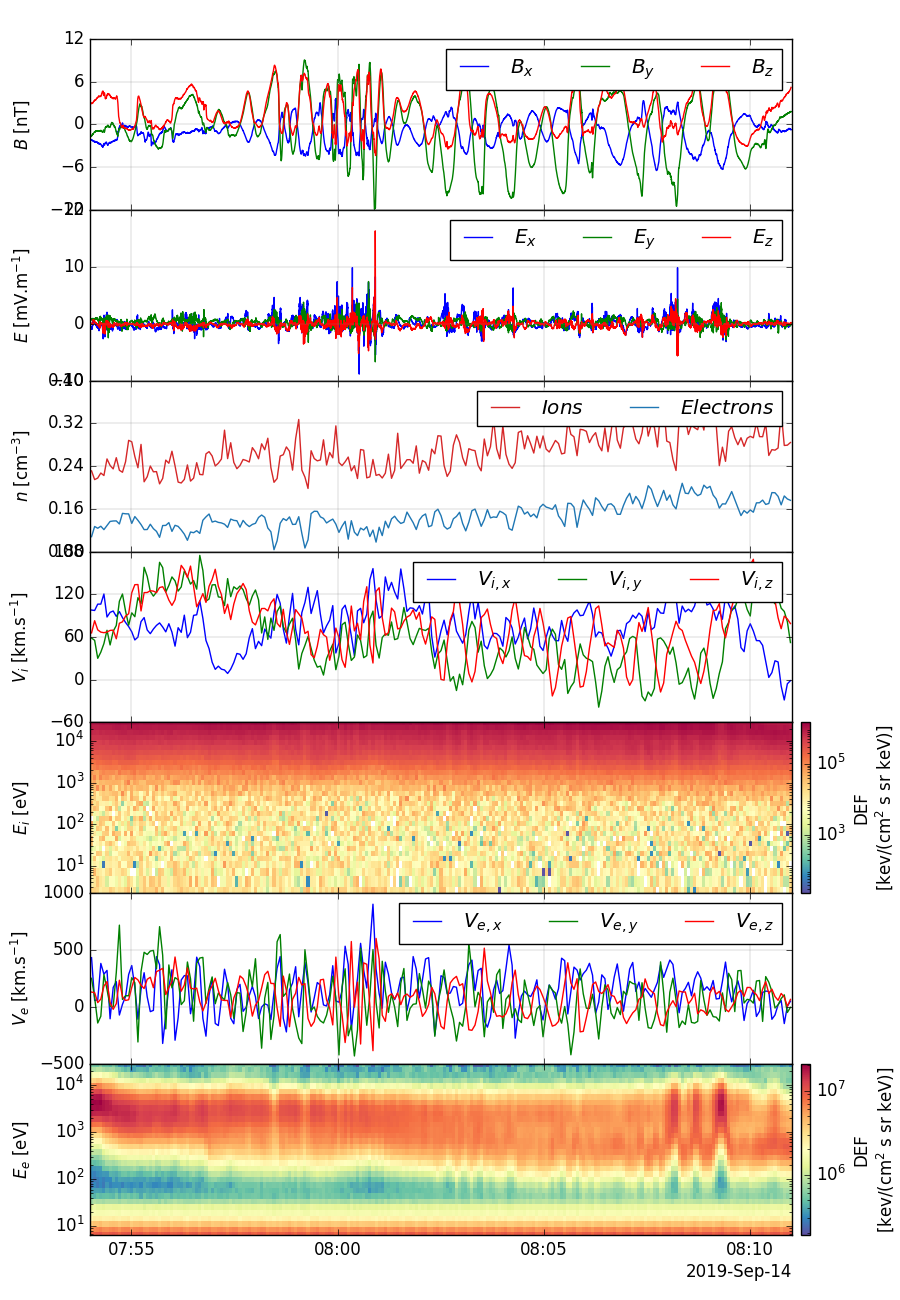
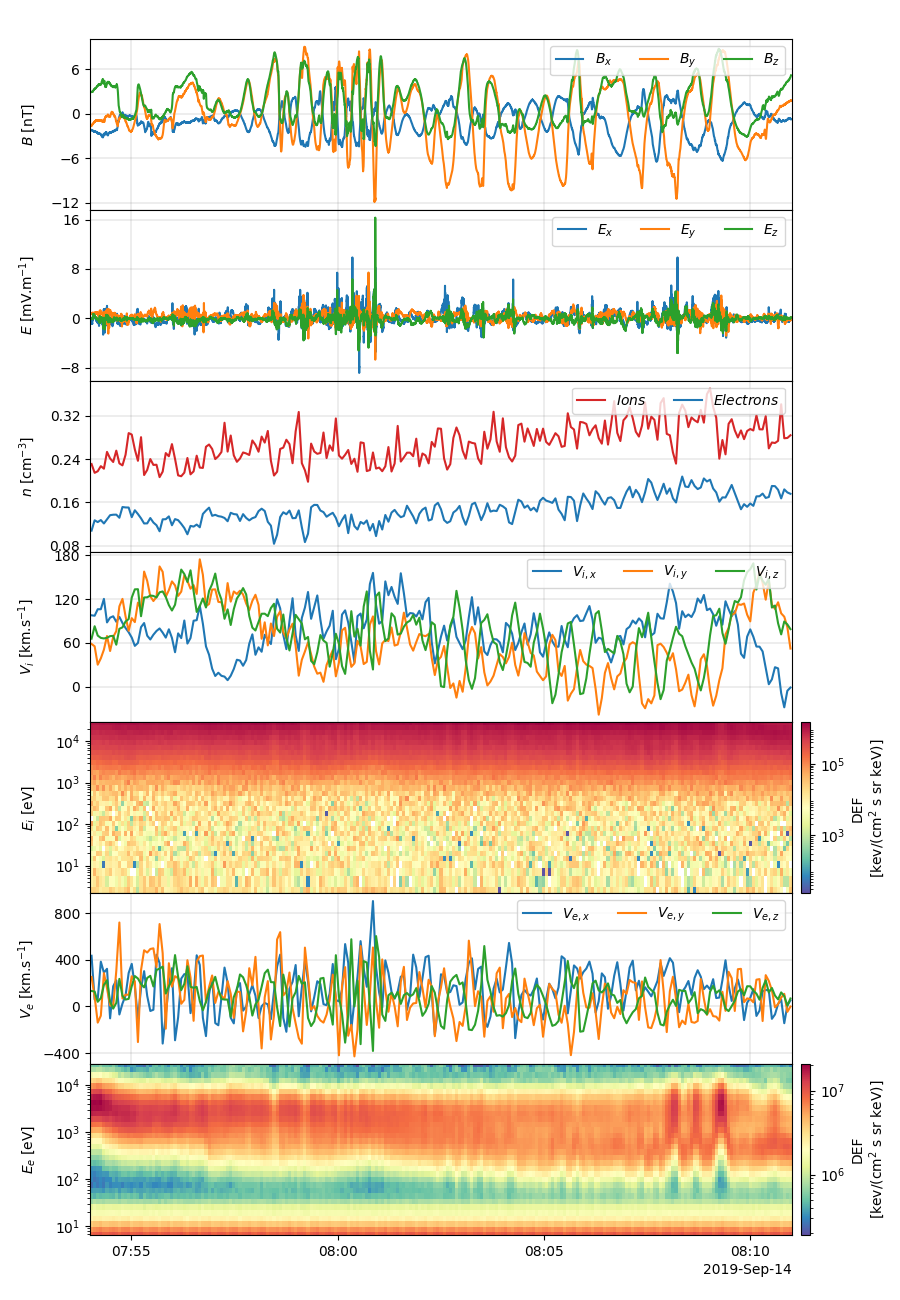
update docs

diff --git a/README.rst b/README.rst
@@ -86,7 +86,7 @@ Setup path to MMS data
 
 .. code:: python
 
-    mms.db_init("/Volumes/mms")
+    mms.db_init(default="local", local="/Volumes/mms")
 
 
 Load magnetic field and ion bulk velocity data
@@ -114,7 +114,7 @@ Import `pyrfu.plot <https://pyrfu.readthedocs.io/en/latest/dev/pyrfu.plot.html>`
 
 .. code:: python
 
-    from pyrfu import plot
+    from pyrfu.plot import plot_line
 
 
 Plot time series of magnetic field and ion bulk velocity
@@ -124,11 +124,11 @@ Plot time series of magnetic field and ion bulk velocity
     import matplotlib.pyplot as plt
 
     f, axs = plt.subplots(2, sharex="all")
-    plot.plot_line(axs[0], b_gsm)
+    plot_line(axs[0], b_gsm)
     axs[0].set_ylabel("$B~[\\mathrm{nT}]$")
     axs[0].legend(["$B_{x}$", "$B_{y}$", "$B_{z}$"], ncol=4)
 
-    plot.plot_line(axs[1], v_gsm_i)
+    plot_line(axs[1], v_gsm_i)
     axs[1].set_ylabel("$V_i~[\\mathrm{km}~\\mathrm{s}^{-1}]$")
     axs[1].legend(["$V_{ix}$", "$V_{iy}$", "$V_{iz}$"], ncol=4)
 
